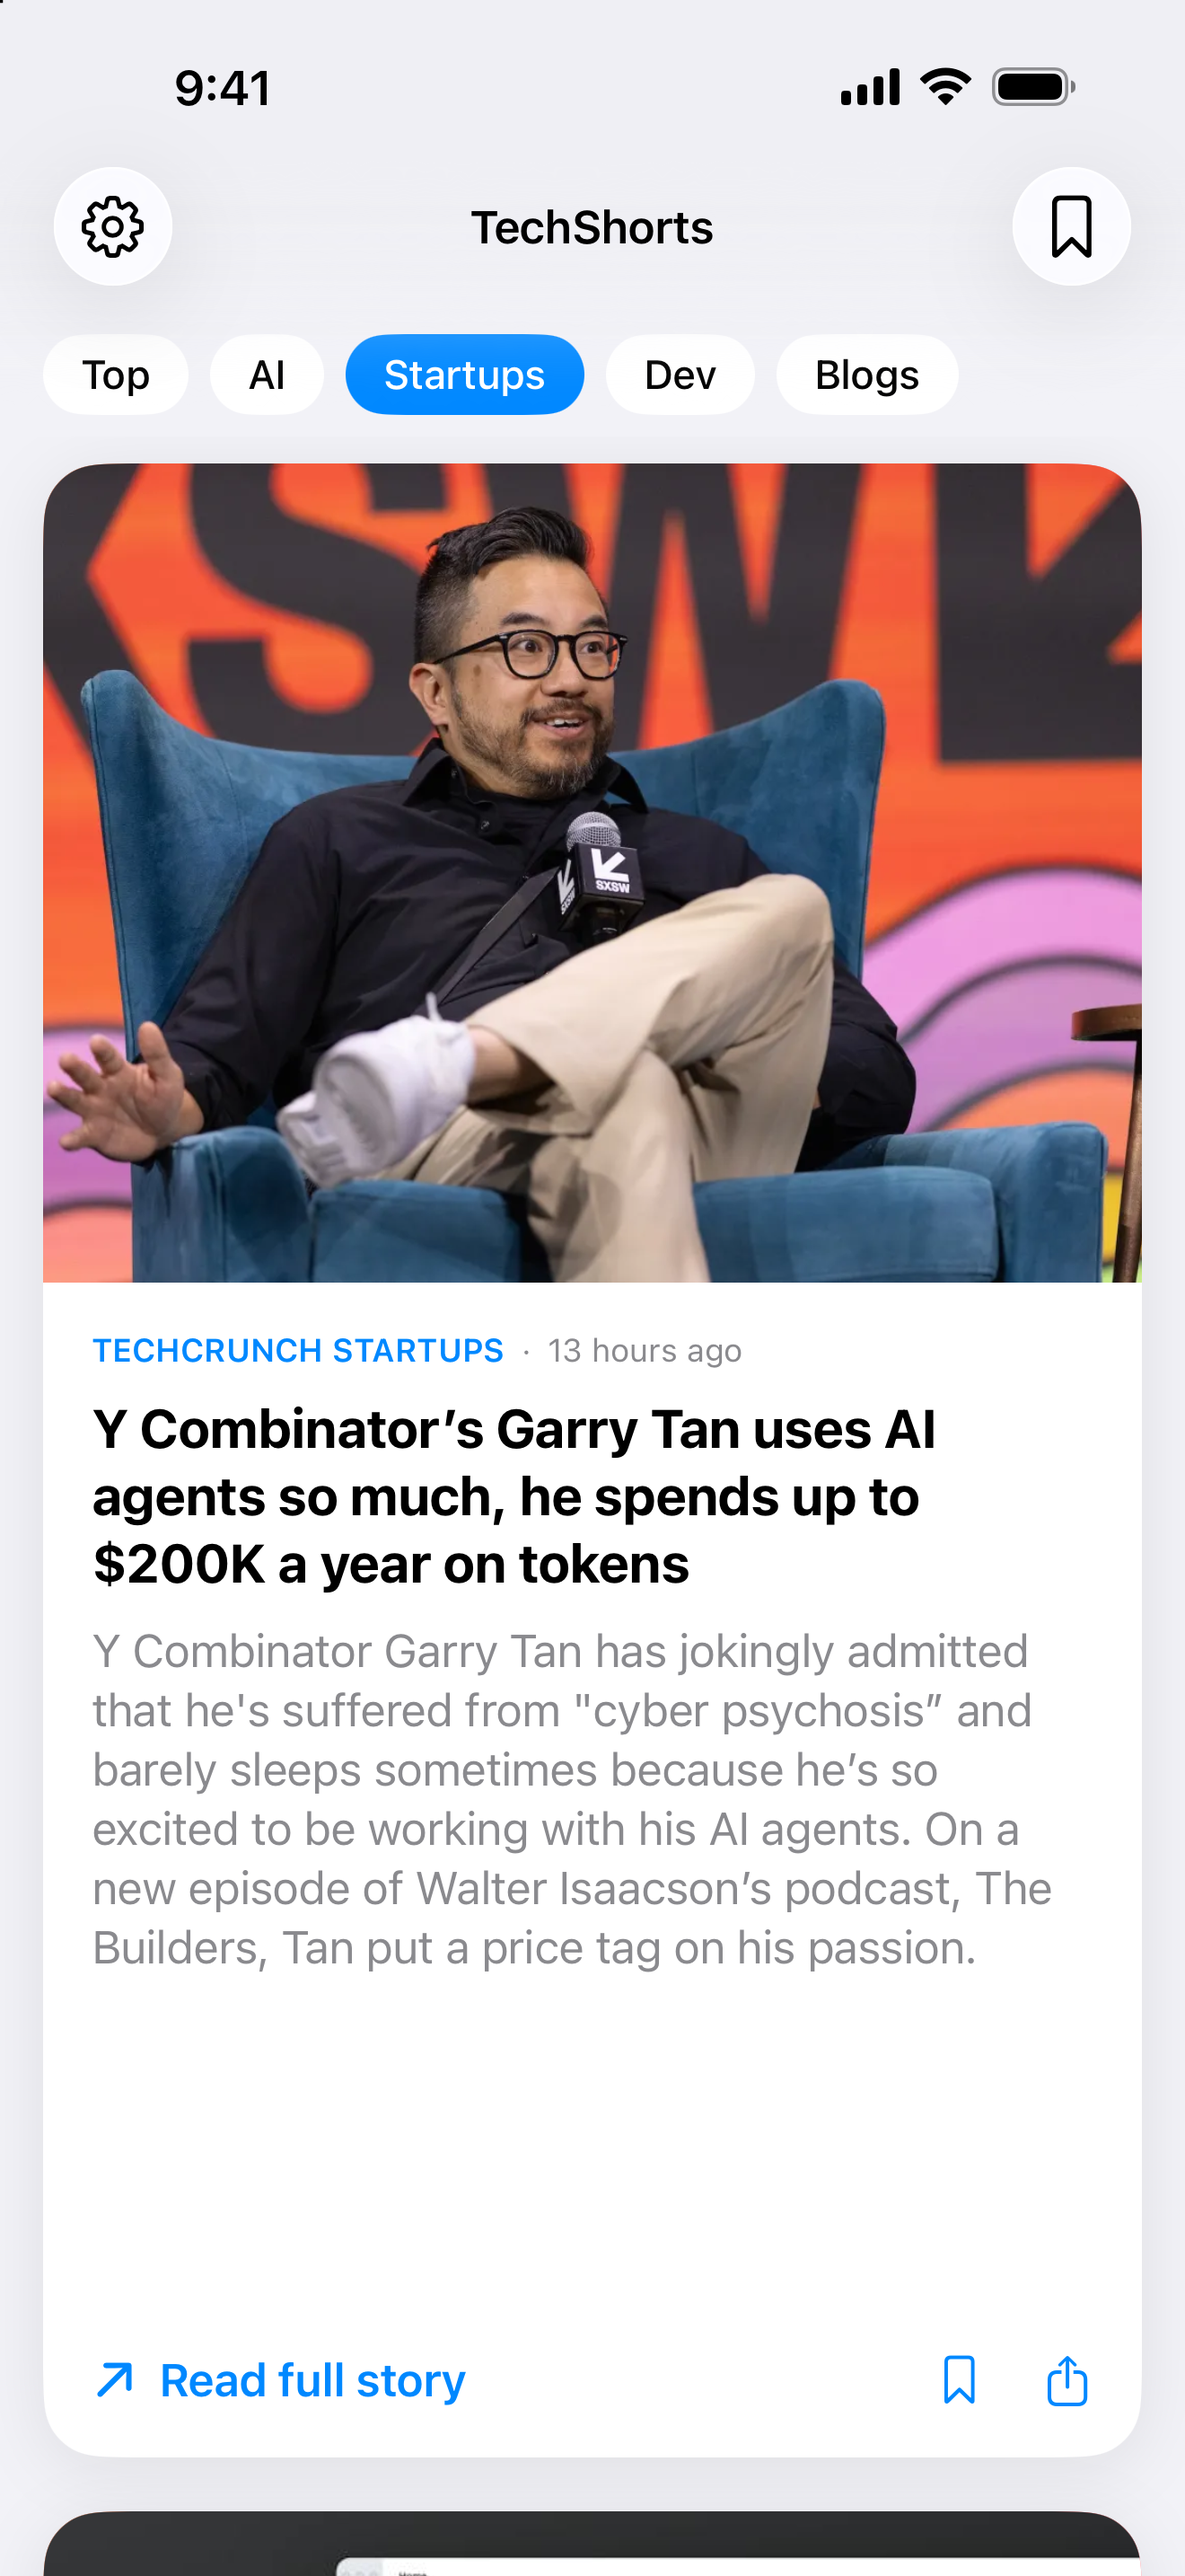
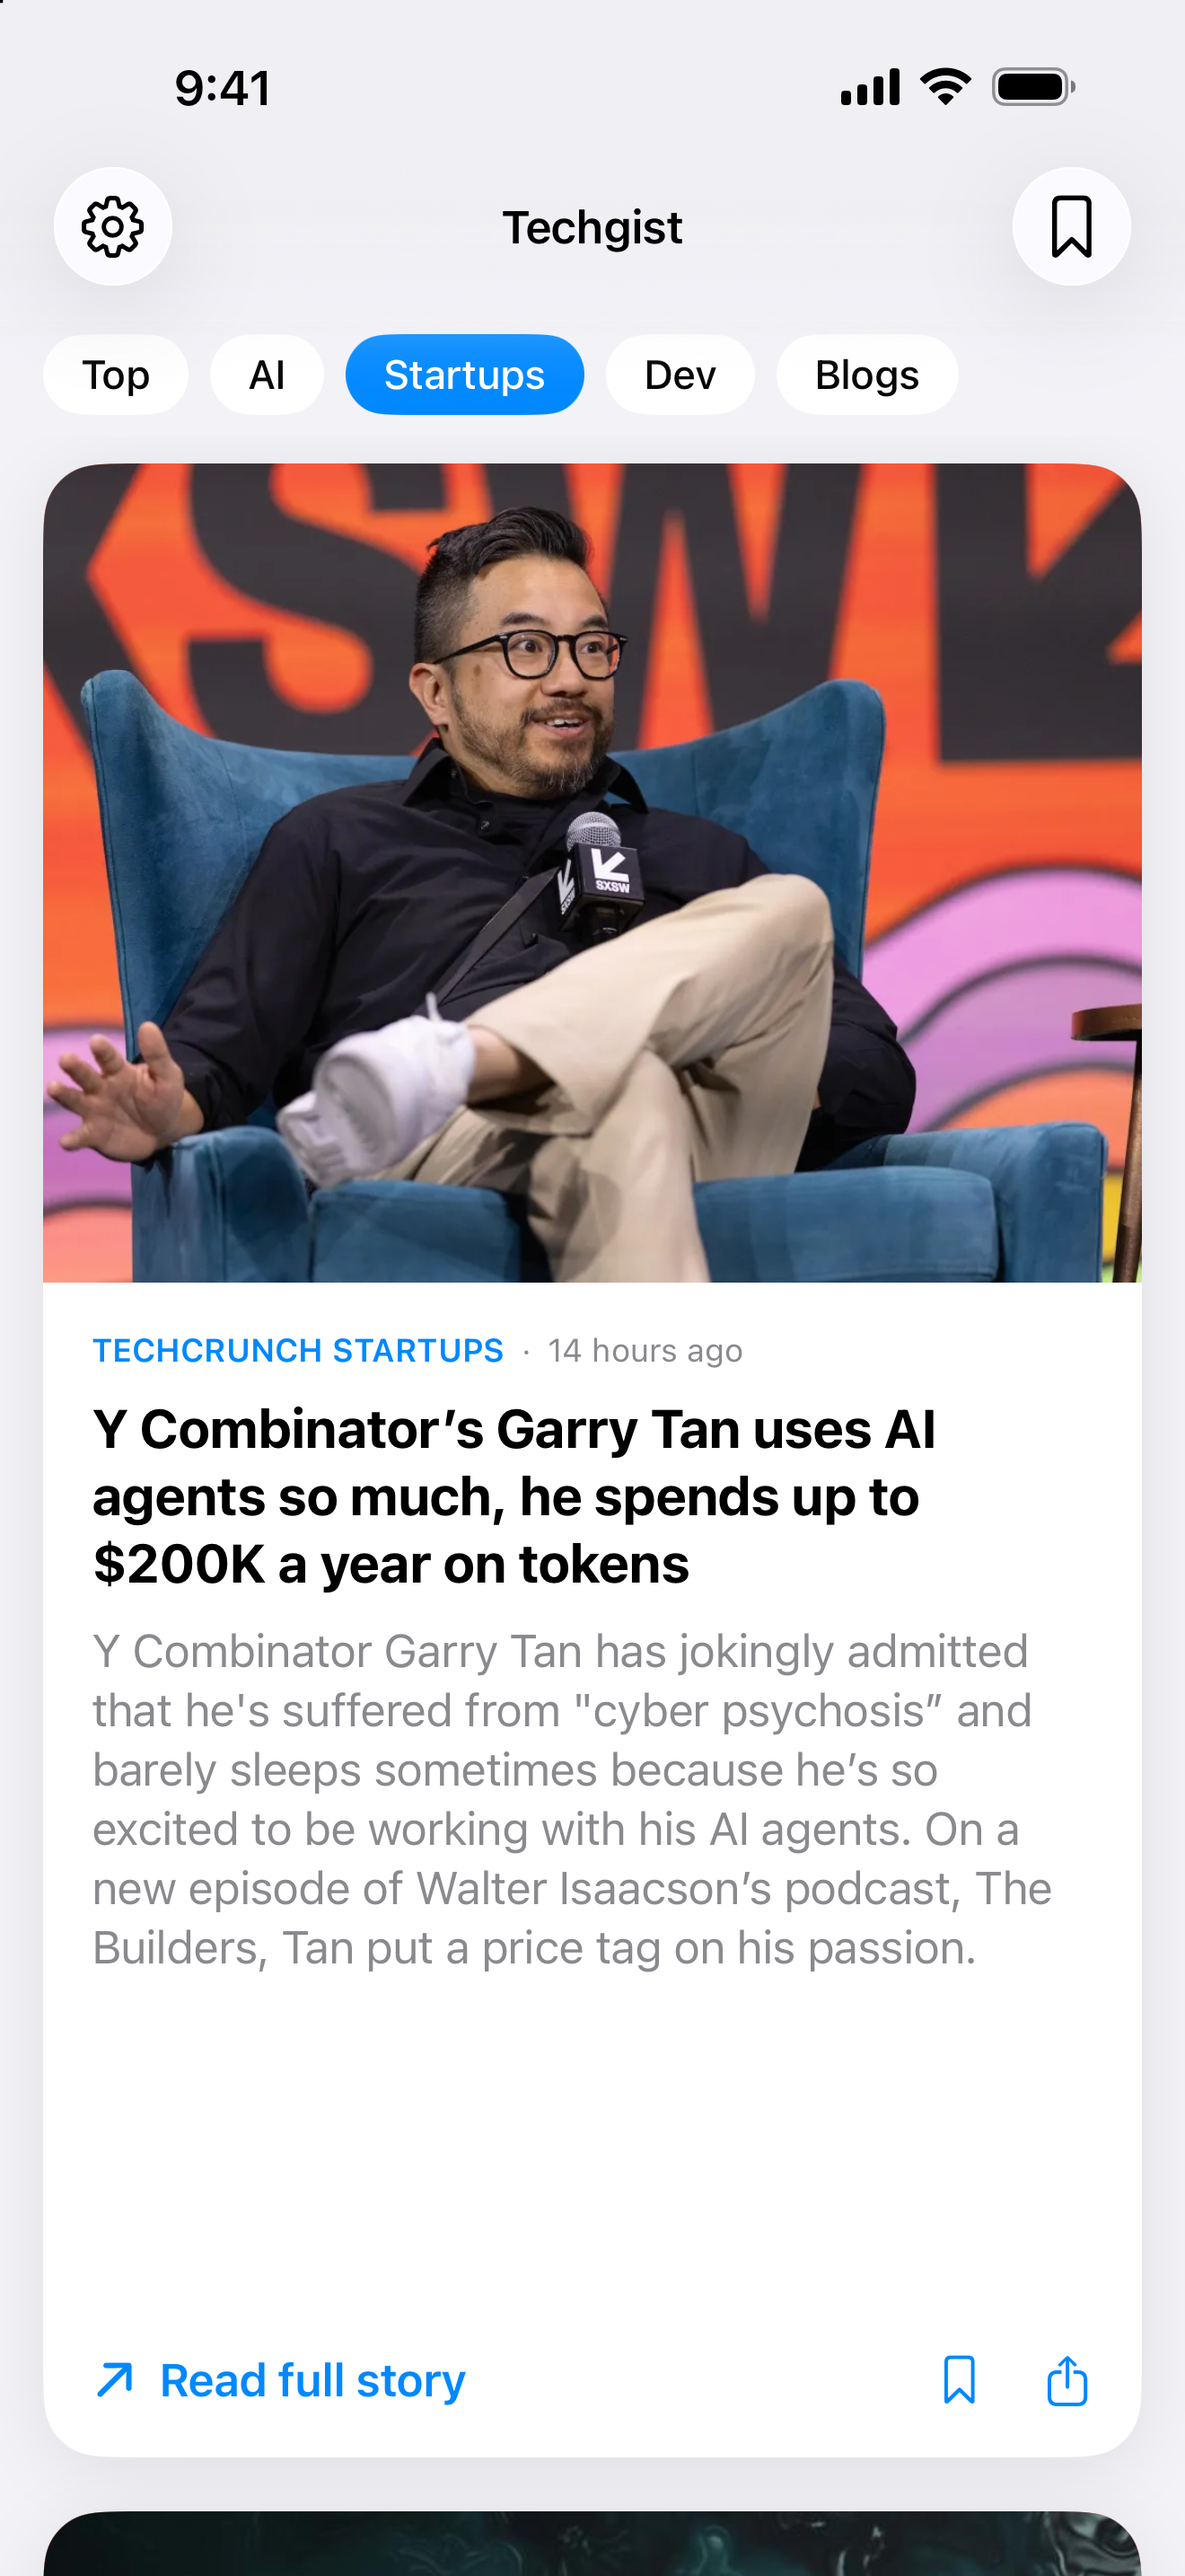
Rename the app to Techgist
"TechShorts" is already taken on the App Store. The app now shows as
Techgist and is listed as "Techgist: AI & Startup News"; pages move to
/apps/techgist/. The repo, Xcode project and bundle ID keep their names.
Screenshots retaken with the new title.

Changed region(s): [[0.0311, 0.962, 0.9629, 1.0], [0.4038, 0.0621, 0.5902, 0.0931]]

diff --git a/server/main.swift b/server/main.swift
@@ -1,4 +1,4 @@
-// Builds a TechShorts edition with the app's own feed and ranking code:
+// Builds a Techgist edition with the app's own feed and ranking code:
 // fetches every feed, fills in missing images and excerpts from article pages,
 // applies editorial.json (pinned stories, blocked links), and writes edition.json.
 // Usage: publisher <editorial.json> <edition.json>. publish.sh runs it; see README.md.
@@ -47,7 +47,7 @@ guard result.articles.count >= 60 else {
 let blocked = editorial.blocked ?? []
 let pinned = (editorial.pinned ?? []).map {
     Article(url: $0.url, title: $0.title, excerpt: $0.excerpt, content: "", image: $0.image,
-            source: $0.source ?? "TechShorts", category: $0.category, publishedAt: $0.publishedAt)
+            source: $0.source ?? "Techgist", category: $0.category, publishedAt: $0.publishedAt)
 }
 let pinnedKeys = Set(pinned.map { FeedService.dedupeKey($0.url) })
 var articles = result.articles.filter { article in

diff --git a/ios/TechShorts/Views/SupportViews.swift b/ios/TechShorts/Views/SupportViews.swift
@@ -93,7 +93,7 @@ struct SettingsView: View {
                     switch store.origin {
                     case .edition(let publishedAt):
                         LabeledContent("Stories") {
-                            Text("TechShorts edition, \(publishedAt, format: .relative(presentation: .named))")
+                            Text("Techgist edition, \(publishedAt, format: .relative(presentation: .named))")
                         }
                     case .direct:
                         LabeledContent("Stories", value: "Direct from publishers")
@@ -115,7 +115,7 @@ struct SettingsView: View {
                 }
                 Button("Cancel", role: .cancel) {}
             } message: {
-                Text("Allow notifications for TechShorts in Settings to get the daily digest.")
+                Text("Allow notifications for Techgist in Settings to get the daily digest.")
             }
         }
     }

diff --git a/ios/TechShorts/Services/FeedService.swift b/ios/TechShorts/Services/FeedService.swift
@@ -3,7 +3,7 @@ import Foundation
 import FoundationNetworking
 #endif
 
-/// Fetches every feed directly. The same code runs in the app and on the TechShorts server.
+/// Fetches every feed directly. The same code runs in the app and on the Techgist server.
 struct FeedService {
     static let perFeedLimit = 12
 
@@ -67,7 +67,7 @@ struct FeedService {
 
     func fetch(_ source: FeedSource) async throws -> [Article] {
         var request = URLRequest(url: source.url, timeoutInterval: 20)
-        request.setValue("TechShorts/1.0 (iOS RSS reader)", forHTTPHeaderField: "User-Agent")
+        request.setValue("Techgist/1.0 (iOS RSS reader)", forHTTPHeaderField: "User-Agent")
         let (data, response) = try await URLSession.shared.data(for: request)
         guard let http = response as? HTTPURLResponse, (200..<300).contains(http.statusCode) else {
             throw URLError(.badServerResponse)

diff --git a/ios/TechShorts/Services/DailyDigest.swift b/ios/TechShorts/Services/DailyDigest.swift
@@ -2,7 +2,7 @@ import Foundation
 import UserNotifications
 import BackgroundTasks
 
-/// A repeating local notification ("Your daily TechShorts") carrying the latest top headline.
+/// A repeating local notification ("Your daily Techgist") carrying the latest top headline.
 /// Local notifications need no server or push certificate.
 enum DailyDigest {
     static let requestID = "daily-digest"
@@ -23,7 +23,7 @@ enum DailyDigest {
         guard isEnabled else { return }
 
         let content = UNMutableNotificationContent()
-        content.title = "Your daily TechShorts"
+        content.title = "Your daily Techgist"
         if let top, Date().timeIntervalSince(top.publishedAt) < 18 * 3600 {
             content.body = top.title
         } else {

diff --git a/ios/TechShorts/Services/PageMetadata.swift b/ios/TechShorts/Services/PageMetadata.swift
@@ -27,7 +27,7 @@ actor PageMetadata {
 
     private static func fetch(_ url: URL) async -> Meta? {
         var request = URLRequest(url: url, timeoutInterval: 10)
-        request.setValue("TechShorts/1.0 (iOS RSS reader)", forHTTPHeaderField: "User-Agent")
+        request.setValue("Techgist/1.0 (iOS RSS reader)", forHTTPHeaderField: "User-Agent")
         guard let (data, _) = try? await URLSession.shared.data(for: request) else { return nil }
         let html = String(decoding: data.prefix(500_000), as: UTF8.self)
         let head = html.range(of: "</head>", options: .caseInsensitive).map { String(html[..<$0.lowerBound]) } ?? html

diff --git a/ios/TechShorts/Models/Edition.swift b/ios/TechShorts/Models/Edition.swift
@@ -1,6 +1,6 @@
 import Foundation
 
-/// A ranked set of stories built and published by the TechShorts server (see `server/` in the repo).
+/// A ranked set of stories built and published by the Techgist server (see `server/` in the repo).
 /// The app shows it while it's under 8 hours old, and fetches the publishers' feeds itself when it isn't.
 struct Edition: Codable, Sendable {
     var publishedAt: Date

diff --git a/ios/TechShorts/Views/ContentView.swift b/ios/TechShorts/Views/ContentView.swift
@@ -13,7 +13,7 @@ struct ContentView: View {
                 feed
             }
             .background(Color(.systemGroupedBackground))
-            .navigationTitle("TechShorts")
+            .navigationTitle("Techgist")
             .navigationBarTitleDisplayMode(.inline)
             .toolbar {
                 ToolbarItem(placement: .topBarLeading) {

diff --git a/ios/AppStore/LISTING.md b/ios/AppStore/LISTING.md
@@ -1,15 +1,15 @@
-# App Store listing — TechShorts
+# App Store listing — Techgist
 
 Paste these into App Store Connect → your app → App Information / Version page.
 
-**Name** (30 chars max): `TechShorts: 60-Word Tech News`
-Backup if it's taken: `TechShorts – Tech in 60 Words`
+**Name** (30 chars max): `Techgist: AI & Startup News`
+"TechShorts: 60-Word Tech News" was refused as already in use on 3 Nov 2026, so the app is named Techgist.
 
-**Subtitle** (30 chars max): `AI, startups & dev, ranked`
+**Subtitle** (30 chars max): `Tech news in 60 words a story`
 
 **Category:** Primary *News*, Secondary *Developer Tools*
 
-**Bundle ID:** `com.pranjald.techshorts` · **SKU:** `techshorts-ios`
+**Bundle ID:** `com.pranjald.techshorts` · **SKU:** `techgist-ios`
 
 **Promotional text** (170 chars, can change without review):
 > Today's tech in 60 words a story. AI, startups, dev tools and the best engineering blogs, ranked by what matters. No account, no ads, no tracking.
@@ -21,7 +21,7 @@ tech news,ai news,startup,developer,programming,hacker news,engineering,summary,
 
 **Description:**
 ```
-TechShorts is the fastest way to keep up with tech. One story per card, sixty words each, from the outlets and blogs people who build things actually read.
+Techgist is the fastest way to keep up with tech. One story per card, sixty words each, from the outlets and blogs people who build things actually read.
 
 THE STORIES THAT MATTER, FIRST
 Stories covered by several outlets or popular on Hacker News rise to the top. The same story from different publishers is merged into one card, so you never read it twice. Deals, buying guides and sponsored posts are filtered out.
@@ -34,7 +34,7 @@ FIVE TABS
 • Blogs — Simon Willison, The Pragmatic Engineer, Stratechery, Martin Fowler, Julia Evans
 
 SUMMARIES WRITTEN ON YOUR IPHONE
-On iPhones with Apple Intelligence, TechShorts writes a short summary of each story on your device. Nothing is sent to a server. On other iPhones you get the publisher's own excerpt.
+On iPhones with Apple Intelligence, Techgist writes a short summary of each story on your device. Nothing is sent to a server. On other iPhones you get the publisher's own excerpt.
 
 MADE FOR A QUICK READ
 • Swipe up for the next story
@@ -50,9 +50,9 @@ No account. No ads. No tracking. What you read and save stays on your iPhone.
 Every story links to the original article and credits its publisher.
 ```
 
-**Marketing URL:** https://pranjaldoshi96.github.io/apps/techshorts/
-**Support URL:** https://pranjaldoshi96.github.io/apps/techshorts/support/
-**Privacy Policy URL:** https://pranjaldoshi96.github.io/apps/techshorts/privacy/
+**Marketing URL:** https://pranjaldoshi96.github.io/apps/techgist/
+**Support URL:** https://pranjaldoshi96.github.io/apps/techgist/support/
+**Privacy Policy URL:** https://pranjaldoshi96.github.io/apps/techgist/privacy/
 
 **App Privacy (nutrition label):** choose **"No, we do not collect data from this app."** → result: *Data Not Collected*.
 This is accurate: there are no analytics, accounts or third-party SDKs, and the only network requests are for public news feeds and article pages.
@@ -63,7 +63,7 @@ This is accurate: there are no analytics, accounts or third-party SDKs, and the 
 
 **App Review notes:**
 ```
-TechShorts is a news reader. No login, no in-app purchases, no third-party SDKs.
+Techgist is a news reader. No login, no in-app purchases, no third-party SDKs.
 
 Content: headlines and short excerpts from 22 publishers' public RSS/Atom feeds, each credited and linked to the original article, which opens in SFSafariViewController. A ranked list of today's stories is published every 2 hours to https://raw.githubusercontent.com/pranjaldoshi96/techshorts/edition/edition.json; if it's unavailable the app reads the feeds directly.
 
@@ -78,4 +78,4 @@ To try it: swipe up through stories, switch tabs (Top, AI, Startups, Dev, Blogs)
 3. `03-blogs.png` Blogs tab
 4. `04-settings.png` Settings: digest, summaries, sources
 
-These show real stories, so a publisher's photo appears in screenshot 1. If App Review objects to third-party images, retake it on a card that uses TechShorts' own cover.
+These show real stories, so a publisher's photo appears in screenshot 1. If App Review objects to third-party images, retake it on a card that uses Techgist's own cover.

diff --git a/ios/STORE_CHECKLIST.md b/ios/STORE_CHECKLIST.md
@@ -1,4 +1,4 @@
-# TechShorts — launch checklist
+# Techgist — launch checklist
 
 ## Done ✅
 - [x] iOS app (SwiftUI, iOS 17+), iPhone, portrait
@@ -13,21 +13,21 @@
 - [x] Team `A4HLS6BV3C`, bundle ID `com.pranjald.techshorts`; signed Release archive succeeds
 - [x] 6.9" App Store screenshots in `AppStore/screenshots/`
 - [x] Store listing, review notes, privacy and age-rating answers in `AppStore/LISTING.md`
-- [x] Product, privacy and support pages live: https://pranjaldoshi96.github.io/apps/techshorts/
+- [x] Product, privacy and support pages live: https://pranjaldoshi96.github.io/apps/techgist/
 
 ## Before you submit — needs you ⚠
 1. **Accept Apple's updated Program License Agreement** at developer.apple.com → Account. Until then Xcode can't create the App Store profile, and the upload fails with "PLA Update available". (Same blocker as Firstnest.)
-2. **Register the bundle ID and create the app record** (below). Register `com.pranjald.techshorts` first at developer.apple.com/account/resources/identifiers/add/bundleId (App IDs → App → Explicit, no capabilities), or it won't appear in App Store Connect's bundle ID list. "TechShorts: 60-Word Tech News" has no live App Store app with that name as of 3 Nov 2026, but a reserved name only shows up when you try.
+2. **Register the bundle ID and create the app record** (below). Register `com.pranjald.techshorts` first at developer.apple.com/account/resources/identifiers/add/bundleId (App IDs → App → Explicit, no capabilities), or it won't appear in App Store Connect's bundle ID list. The store name is "Techgist: AI & Startup News" ("TechShorts: 60-Word Tech News" was already taken).
 3. **Test on your iPhone via TestFlight** for a day or two. Not yet checked on a real device: the daily digest notification and background refresh.
 
 ## Submit steps
-1. App Store Connect → Apps → **+** → New App → iOS, name from `AppStore/LISTING.md`, bundle ID `com.pranjald.techshorts`, SKU `techshorts-ios`.
+1. App Store Connect → Apps → **+** → New App → iOS, name from `AppStore/LISTING.md`, bundle ID `com.pranjald.techshorts`, SKU `techgist-ios`.
 2. Upload a build: `ios/scripts/archive.sh` (or Xcode → Any iOS Device → Product → Archive → Distribute App → App Store Connect → Upload).
 3. Fill in the listing, keywords, screenshots, URLs, App Privacy ("Data Not Collected") and age rating from `AppStore/LISTING.md`.
 4. Availability: everywhere except China mainland.
 5. TestFlight: add yourself as an internal tester, install, use it for a couple of days. For friends, create a public link (external testers need a short Beta App Review for the first build).
 6. Submit for review.
-7. When it's live, change "Coming to the App Store" on https://pranjaldoshi96.github.io/apps/techshorts/ (and the home page card) to the App Store link, as was done for Roomerang.
+7. When it's live, change "Coming to the App Store" on https://pranjaldoshi96.github.io/apps/techgist/ (and the home page card) to the App Store link, as was done for Roomerang.
 
 ## Next versions (not in v1)
 - Home and Lock Screen widget with today's top story (WidgetKit)

diff --git a/ios/README.md b/ios/README.md
@@ -43,7 +43,7 @@ Everything for the store is ready in this folder. Follow [`STORE_CHECKLIST.md`](
 - **Signing:** team `A4HLS6BV3C`, bundle ID `com.pranjald.techshorts`, automatic signing.
 - **Listing text, review notes, privacy and age-rating answers:** [`AppStore/LISTING.md`](AppStore/LISTING.md)
 - **Screenshots:** [`AppStore/screenshots/`](AppStore/screenshots/), 6.9" (1320 × 2868)
-- **Product, support and privacy pages:** <https://pranjaldoshi96.github.io/apps/techshorts/>, in the `pranjaldoshi96.github.io` repo with your other apps
+- **Product, support and privacy pages:** <https://pranjaldoshi96.github.io/apps/techgist/>, in the `pranjaldoshi96.github.io` repo with your other apps
 - **Upload a build:** `scripts/archive.sh` archives, signs and uploads to App Store Connect. It then appears in TestFlight after 10–30 minutes.
 - **Export compliance:** already answered in `Info.plist` (`ITSAppUsesNonExemptEncryption = NO`).
 

diff --git a/README.md b/README.md
@@ -1,4 +1,6 @@
-# TechShorts
+# Techgist
+
+Published on the App Store as **Techgist: AI & Startup News**. (The repo and Xcode project keep the working name TechShorts.)
 
 Inshorts-style tech news: one story per card, about 60 words each, covering AI, startups, dev tools and good engineering blogs.
 
